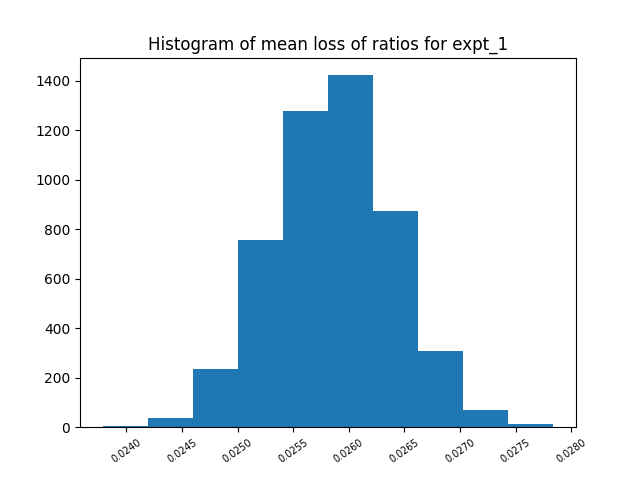
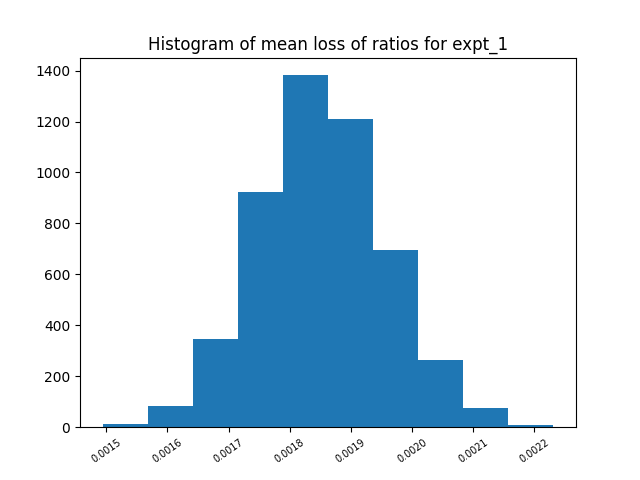
modified:   ../misha/output/perturbed-mean-entropy-hist_1.png modified:   adversarial_sample.py modified:   adversarial_sample_fair.py

diff --git a/myapproach/create_plots.py b/myapproach/create_plots.py
@@ -14,23 +14,24 @@ tf.random.set_seed(seed)
 np.random.seed(seed)
 
 
-expt = '_1'
+expt = '_4'
 filename = f'outcome/perturbed_loss{expt}.npy'
 histplot = f'adversarial-points/perturbed-mean-entropy-hist{expt}.png'
 qqplot = f'adversarial-points/perturbed-mean-entropy-qqplot{expt}.png'
 
 
 test_ratio =  np.load(filename)
-
+test_ratio = test_ratio[np.logical_not(np.isnan(test_ratio))]
+m = test_ratio.shape[0]
 
 
 
 def ratio_mean(n = 9045):
-    index = random.sample(range(n), 1000)
+    index = random.sample(range(n), 100)
     srswr_ratio=[test_ratio[i] for i in index]
     return np.mean(srswr_ratio)
 
-ratio_means = [ratio_mean() for _ in range(5000)]
+ratio_means = [ratio_mean(m) for _ in range(5000)]
 plt.hist(ratio_means)
 plt.title(f'Histogram of mean loss of ratios for expt{expt}')
 plt.xticks(rotation = 35, fontsize = 'x-small')
@@ -43,23 +44,20 @@ plt.title(f'Normal qq-plot of mean loss of ratios for expt{expt}')
 plt.savefig(qqplot)
 plt.close()
 
-expt = '_1_fair'
+expt = '_4_fair'
 filename = f'outcome/perturbed_loss{expt}.npy'
 histplot = f'adversarial-points/perturbed-mean-entropy-hist{expt}.png'
 qqplot = f'adversarial-points/perturbed-mean-entropy-qqplot{expt}.png'
 
 
 test_ratio =  np.load(filename)
+test_ratio = test_ratio[np.logical_not(np.isnan(test_ratio))]
+m = test_ratio.shape[0]
 
 
 
 
-def ratio_mean(n = 9045):
-    index = random.sample(range(n), 1000)
-    srswr_ratio=[test_ratio[i] for i in index]
-    return np.mean(srswr_ratio)
-
-ratio_means = [ratio_mean() for _ in range(5000)]
+ratio_means = [ratio_mean(m) for _ in range(5000)]
 plt.hist(ratio_means)
 plt.title(f'Histogram of mean loss of ratios for expt{expt}')
 plt.xticks(rotation = 35, fontsize = 'x-small')

diff --git a/myapproach/adversarial_sample_fair.py b/myapproach/adversarial_sample_fair.py
@@ -54,7 +54,7 @@ graph = cl.Classifier(init_graph, tf.matmul(x_unprotected_train, unprotected_dir
 
 
 
-def sample_perturbation(data_point, regularizer = 1e1, learning_rate = 5e-3, num_steps = 200):
+def sample_perturbation(data_point, regularizer = 1e1, learning_rate = 5e-2, num_steps = 200):
     x, y = data_point
     x = tf.reshape(x, (1, -1))
     y = tf.reshape(y, (1, -1))
@@ -87,7 +87,7 @@ end_time = time.time()
 perturbed_test_samples = np.array(perturbed_test_samples)
 
 
-expt = '_4_fair'
+expt = '_3_fair'
 filename = f'outcome/perturbed_loss{expt}.npy'
 
 

diff --git a/myapproach/adversarial_sample.py b/myapproach/adversarial_sample.py
@@ -54,7 +54,7 @@ graph = cl.Classifier(init_graph, x_unprotected_train, y_train, x_unprotected_te
 
 
 
-def sample_perturbation(data_point, regularizer = 1e1, learning_rate = 5e-3, num_steps = 200):
+def sample_perturbation(data_point, regularizer = 1e1, learning_rate = 5e-2, num_steps = 200):
     x, y = data_point
     x = tf.reshape(x, (1, -1))
     y = tf.reshape(y, (1, -1))
@@ -86,7 +86,7 @@ end_time = time.time()
 perturbed_test_samples = np.array(perturbed_test_samples)
 
 
-expt = '_4'
+expt = '_3'
 filename = f'outcome/perturbed_loss{expt}.npy'
 
 
